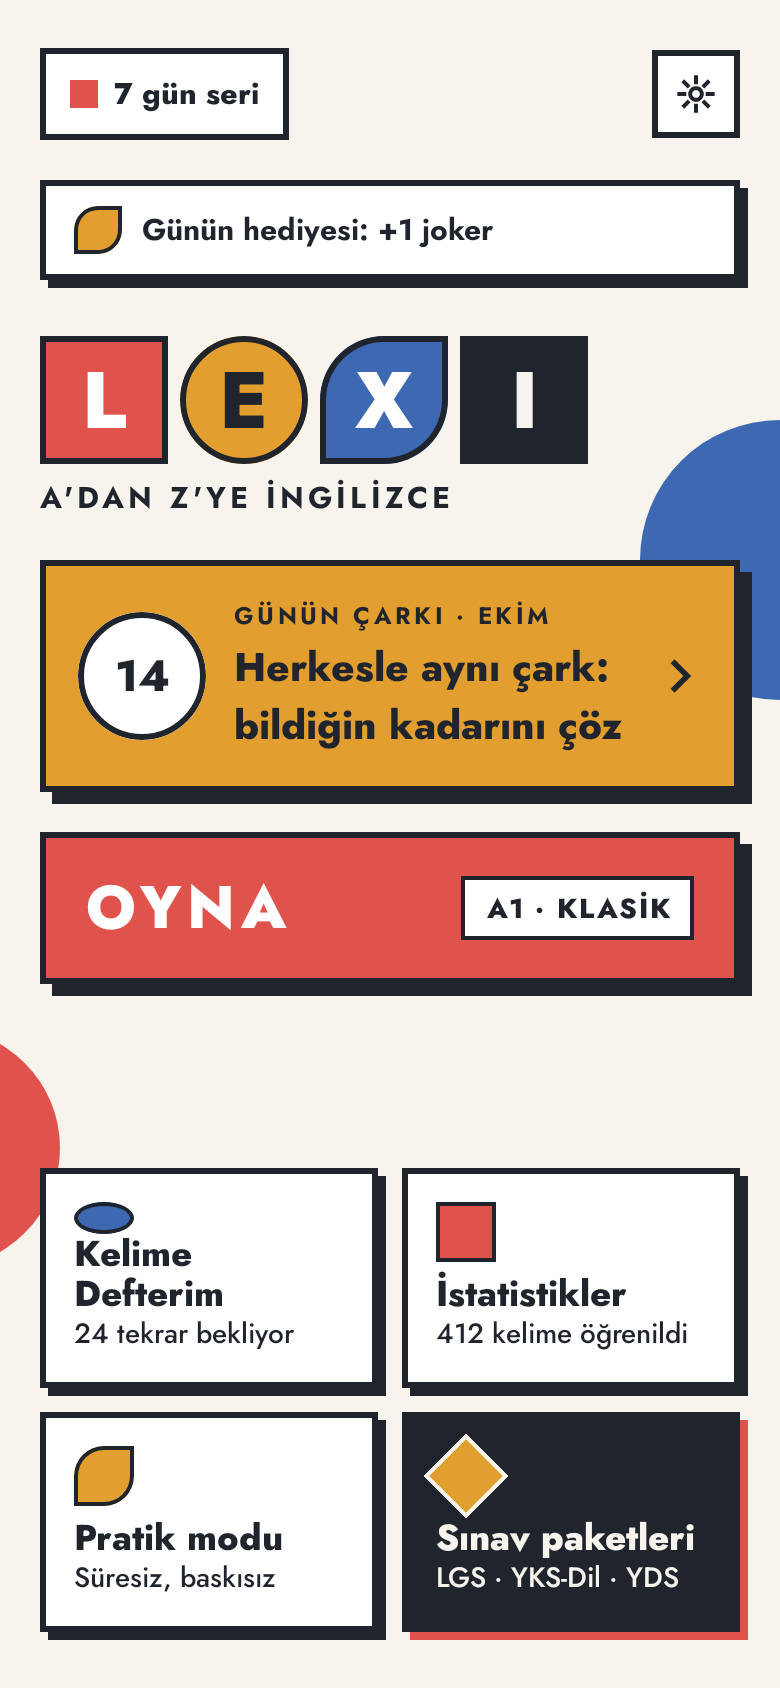
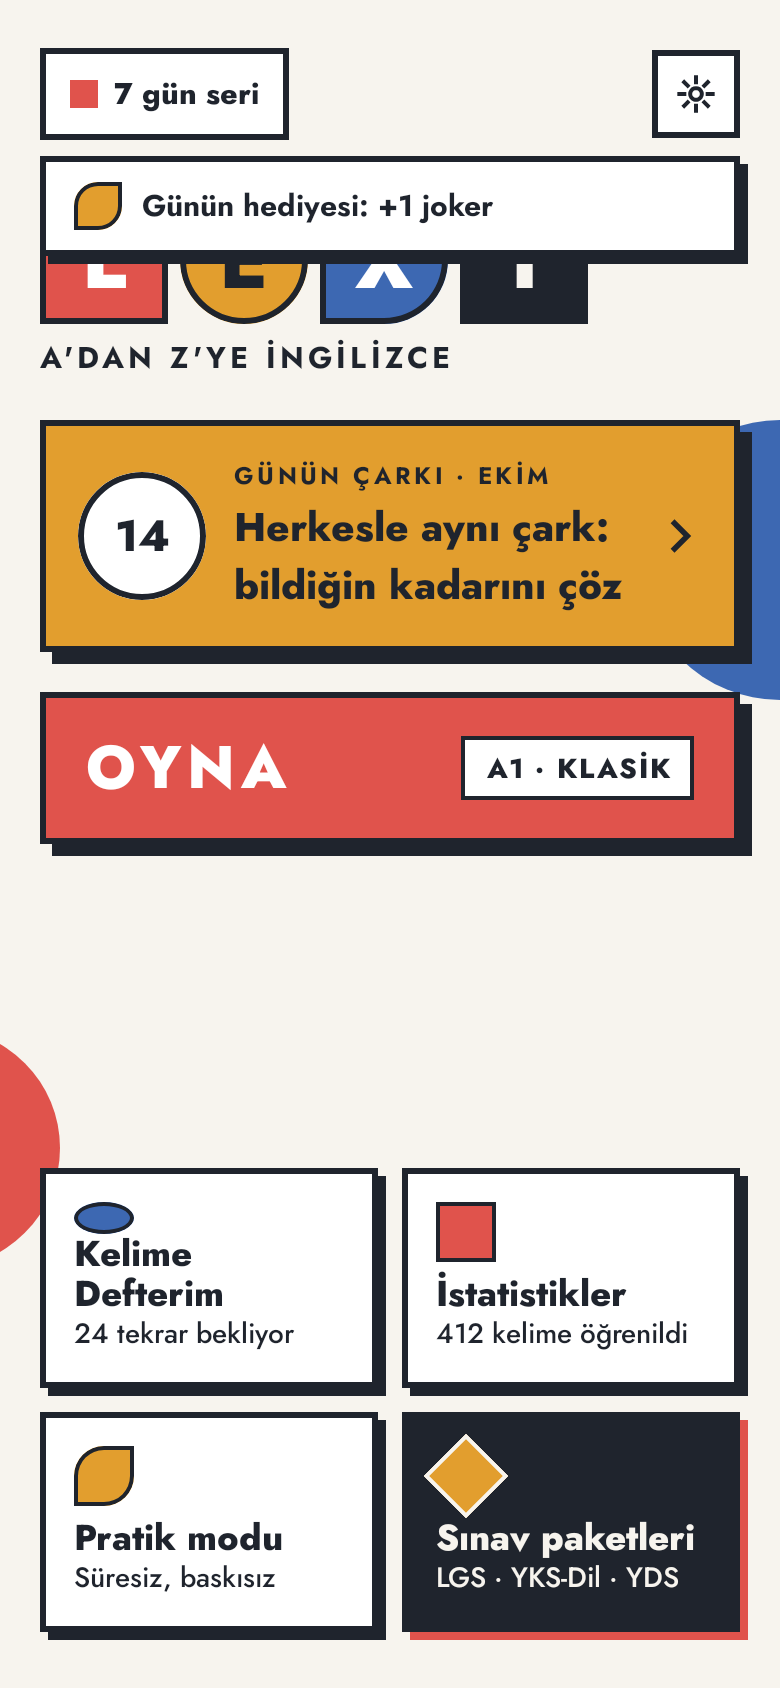
fix(home): show the daily gift as an overlay toast
The inline gift notice took layout space, so Home's other parts shrank while
it was visible. It is now a floating SlidingToast (core:designsystem,
motion #11: 16dp slide in 180 ms, in place with reduced motion) below the top
bar; it takes no layout space, keeps the 6 s duration and tap-to-dismiss, and
waits until Home is resumed. The result screen's share error reuses it.
Adds a regression test that PLAY, the daily card and the tiles keep their
bounds before, during and after the toast.

diff --git a/feature/home/src/commonMain/kotlin/dev/talhabayhan/lexi/feature/home/HomeScreen.kt b/feature/home/src/commonMain/kotlin/dev/talhabayhan/lexi/feature/home/HomeScreen.kt
@@ -25,7 +25,6 @@ import androidx.compose.material3.Icon
 import androidx.compose.material3.Text
 import androidx.compose.runtime.Composable
 import androidx.compose.runtime.CompositionLocalProvider
-import androidx.compose.runtime.LaunchedEffect
 import androidx.compose.runtime.remember
 import androidx.compose.ui.Alignment
 import androidx.compose.ui.Modifier
@@ -53,9 +52,8 @@ import dev.talhabayhan.lexi.core.designsystem.component.LexiLogoSize
 import dev.talhabayhan.lexi.core.designsystem.component.MenuTile
 import dev.talhabayhan.lexi.core.designsystem.component.NavSquareButton
 import dev.talhabayhan.lexi.core.designsystem.component.PlayButton
+import dev.talhabayhan.lexi.core.designsystem.component.SlidingToast
 import dev.talhabayhan.lexi.core.designsystem.component.StreakChip
-import dev.talhabayhan.lexi.core.designsystem.component.Toast
-import dev.talhabayhan.lexi.core.designsystem.component.ToastStyle
 import dev.talhabayhan.lexi.core.designsystem.component.menuTileMinWidth
 import dev.talhabayhan.lexi.core.designsystem.icon.LexiIcons
 import dev.talhabayhan.lexi.core.designsystem.modifier.lexiSurface
@@ -94,7 +92,6 @@ import dev.talhabayhan.lexi.feature.home.generated.resources.home_tile_practice
 import dev.talhabayhan.lexi.feature.home.generated.resources.home_tile_practice_subtitle
 import dev.talhabayhan.lexi.feature.home.generated.resources.home_tile_stats
 import dev.talhabayhan.lexi.feature.home.generated.resources.home_tile_stats_learned
-import kotlinx.coroutines.delay
 import org.jetbrains.compose.resources.pluralStringResource
 import org.jetbrains.compose.resources.stringArrayResource
 import org.jetbrains.compose.resources.stringResource
@@ -102,10 +99,16 @@ import org.jetbrains.compose.resources.stringResource
 /**
  * `02-home`: streak chip and settings, the logo, the daily card, OYNA and the 2 × 2 menu tiles. The blue circle and
  * red half-pill behind are edge-to-edge decoration at 210dp from the top / bottom of the screen; the content keeps the
- * design paddings inside the system-bar insets and never scrolls: on short phones it steps down [HomeTier]s.
+ * design paddings inside the system-bar insets and never scrolls: on short phones it steps down [HomeTier]s. The daily
+ * gift is a floating toast shown only while [noticeVisible] (the screen is resumed); it never affects the layout.
  */
 @Composable
-internal fun HomeScreen(state: HomeUiState, onIntent: (HomeIntent) -> Unit, modifier: Modifier = Modifier) {
+internal fun HomeScreen(
+    state: HomeUiState,
+    onIntent: (HomeIntent) -> Unit,
+    modifier: Modifier = Modifier,
+    noticeVisible: Boolean = true,
+) {
     val colors = LexiTheme.colors
     val dimens = LexiTheme.dimens
     Box(modifier.fillMaxSize().background(colors.cream)) {
@@ -131,8 +134,47 @@ internal fun HomeScreen(state: HomeUiState, onIntent: (HomeIntent) -> Unit, modi
             ) { tier, tileGrowth, fit ->
                 HomeContent(tier, tileGrowth, fit, state, onIntent)
             }
+            // Floats above the content: it takes no layout space, so the gift never resizes or moves Home's parts.
+            val notice = state.dailyGiftNotice
+            if (notice != null && noticeVisible) {
+                GiftToast(
+                    notice = notice,
+                    onDismiss = { onIntent(HomeIntent.DismissNotice) },
+                    modifier = Modifier
+                        .align(Alignment.TopCenter)
+                        .windowInsetsPadding(WindowInsets.safeDrawing)
+                        .lexiContentWidth()
+                        .padding(
+                            start = dimens.screenPaddingHorizontal,
+                            end = dimens.screenPaddingHorizontal,
+                            top = dimens.screenPaddingTop + HomeDefaults.StreakChipHeight + dimens.gap8,
+                        ),
+                )
+            }
         }
     }
+}
+
+/** The daily joker gift as an info toast below the top bar (never over the streak chip or the gear); tap to dismiss. */
+@Composable
+private fun GiftToast(notice: DailyGiftNotice, onDismiss: () -> Unit, modifier: Modifier = Modifier) {
+    val message = when (notice.type) {
+        DailyGiftNoticeType.Daily -> stringResource(Res.string.home_joker_gift_daily, notice.amount)
+        DailyGiftNoticeType.Streak -> stringResource(Res.string.home_joker_gift_streak, notice.amount)
+        DailyGiftNoticeType.Combined -> stringResource(Res.string.home_joker_gift_combined, notice.amount)
+    }
+    SlidingToast(
+        message = message,
+        onDismissed = onDismiss,
+        visibleMillis = NOTICE_VISIBLE_MILLIS,
+        modifier = modifier
+            .fillMaxWidth()
+            .clickable(
+                onClickLabel = stringResource(Res.string.home_notice_dismiss),
+                role = Role.Button,
+                onClick = onDismiss,
+            ),
+    )
 }
 
 /** Heights of one layout tier (`screen-map.md`): regular is the design, the others are DESIGN-DEBT scalings of it. */
@@ -246,27 +288,6 @@ private fun HomeContent(
     ) {
         Column(verticalArrangement = Arrangement.spacedBy(metrics.gap)) {
             TopBar(state, onIntent)
-            state.dailyGiftNotice?.let { notice ->
-                LaunchedEffect(notice) {
-                    delay(NOTICE_VISIBLE_MILLIS)
-                    onIntent(HomeIntent.DismissNotice)
-                }
-                val message = when (notice.type) {
-                    DailyGiftNoticeType.Daily -> stringResource(Res.string.home_joker_gift_daily, notice.amount)
-                    DailyGiftNoticeType.Streak -> stringResource(Res.string.home_joker_gift_streak, notice.amount)
-                    DailyGiftNoticeType.Combined -> stringResource(Res.string.home_joker_gift_combined, notice.amount)
-                }
-                Toast(
-                    message = message,
-                    style = ToastStyle.Info,
-                    modifier = Modifier
-                        .fillMaxWidth()
-                        .clickable(
-                            onClickLabel = stringResource(Res.string.home_notice_dismiss),
-                            role = Role.Button,
-                        ) { onIntent(HomeIntent.DismissNotice) },
-                )
-            }
             Column(
                 Modifier.padding(top = if (tier == HomeTier.Regular) dimens.gap8 else dimens.gap4),
                 verticalArrangement = Arrangement.spacedBy(dimens.gap6),

diff --git a/feature/game/src/commonMain/kotlin/dev/talhabayhan/lexi/feature/game/result/ResultScreen.kt b/feature/game/src/commonMain/kotlin/dev/talhabayhan/lexi/feature/game/result/ResultScreen.kt
@@ -1,7 +1,5 @@
 package dev.talhabayhan.lexi.feature.game.result
 
-import androidx.compose.animation.core.Animatable
-import androidx.compose.animation.core.tween
 import androidx.compose.foundation.BorderStroke
 import androidx.compose.foundation.background
 import androidx.compose.foundation.layout.Arrangement
@@ -26,14 +24,8 @@ import androidx.compose.foundation.rememberScrollState
 import androidx.compose.foundation.verticalScroll
 import androidx.compose.material3.Text
 import androidx.compose.runtime.Composable
-import androidx.compose.runtime.LaunchedEffect
-import androidx.compose.runtime.getValue
-import androidx.compose.runtime.remember
-import androidx.compose.runtime.rememberUpdatedState
 import androidx.compose.ui.Alignment
 import androidx.compose.ui.Modifier
-import androidx.compose.ui.graphics.graphicsLayer
-import androidx.compose.ui.platform.LocalDensity
 import androidx.compose.ui.tooling.preview.Preview
 import androidx.compose.ui.unit.Dp
 import dev.talhabayhan.lexi.core.designsystem.component.AdaptiveTrailingRow
@@ -49,10 +41,9 @@ import dev.talhabayhan.lexi.core.designsystem.component.ResultDefaults
 import dev.talhabayhan.lexi.core.designsystem.component.ReviewMoreRow
 import dev.talhabayhan.lexi.core.designsystem.component.ReviewOutcome
 import dev.talhabayhan.lexi.core.designsystem.component.ReviewRow
+import dev.talhabayhan.lexi.core.designsystem.component.SlidingToast
 import dev.talhabayhan.lexi.core.designsystem.component.StatGrid
 import dev.talhabayhan.lexi.core.designsystem.component.StatTile
-import dev.talhabayhan.lexi.core.designsystem.component.Toast
-import dev.talhabayhan.lexi.core.designsystem.component.ToastStyle
 import dev.talhabayhan.lexi.core.designsystem.format.formatClock
 import dev.talhabayhan.lexi.core.designsystem.modifier.lexiHeading
 import dev.talhabayhan.lexi.core.designsystem.theme.LexiTheme
@@ -104,7 +95,6 @@ import dev.talhabayhan.lexi.feature.game.generated.resources.share_error
 import dev.talhabayhan.lexi.feature.game.result.share.ShareCardCapture
 import kotlinx.collections.immutable.persistentListOf
 import kotlinx.collections.immutable.toImmutableList
-import kotlinx.coroutines.delay
 import org.jetbrains.compose.resources.StringResource
 import org.jetbrains.compose.resources.pluralStringResource
 import org.jetbrains.compose.resources.stringResource
@@ -191,19 +181,10 @@ internal fun ResultScreen(
 /** Info toast "Paylaşım başlatılamadı.": slides down 16dp in 180 ms (no slide with reduced motion), gone after 2.5 s. */
 @Composable
 private fun ShareErrorToast(onDismissed: () -> Unit, modifier: Modifier = Modifier) {
-    val motion = LexiTheme.motion
-    val slidePx = with(LocalDensity.current) { motion.toastSlideDistance.toPx() }
-    val offset = remember { Animatable(if (motion.reducedMotion) 0f else -slidePx) }
-    val latestOnDismissed by rememberUpdatedState(onDismissed)
-    LaunchedEffect(Unit) {
-        offset.animateTo(0f, tween(motion.toastDurationMillis, easing = motion.mechanical))
-        delay(motion.toastVisibleMillis.toLong())
-        latestOnDismissed()
-    }
-    Toast(
+    SlidingToast(
         message = stringResource(Res.string.share_error),
-        style = ToastStyle.Info,
-        modifier = modifier.fillMaxWidth().graphicsLayer { translationY = offset.value },
+        onDismissed = onDismissed,
+        modifier = modifier.fillMaxWidth(),
     )
 }
 

diff --git a/core/designsystem/src/commonMain/kotlin/dev/talhabayhan/lexi/core/designsystem/component/Feedback.kt b/core/designsystem/src/commonMain/kotlin/dev/talhabayhan/lexi/core/designsystem/component/Feedback.kt
@@ -1,5 +1,7 @@
 package dev.talhabayhan.lexi.core.designsystem.component
 
+import androidx.compose.animation.core.Animatable
+import androidx.compose.animation.core.tween
 import androidx.compose.foundation.BorderStroke
 import androidx.compose.foundation.background
 import androidx.compose.foundation.layout.Arrangement
@@ -17,9 +19,15 @@ import androidx.compose.foundation.verticalScroll
 import androidx.compose.material3.Text
 import androidx.compose.runtime.Composable
 import androidx.compose.runtime.Immutable
+import androidx.compose.runtime.LaunchedEffect
+import androidx.compose.runtime.getValue
+import androidx.compose.runtime.remember
+import androidx.compose.runtime.rememberUpdatedState
 import androidx.compose.ui.Alignment
 import androidx.compose.ui.Modifier
 import androidx.compose.ui.graphics.Color
+import androidx.compose.ui.graphics.graphicsLayer
+import androidx.compose.ui.platform.LocalDensity
 import androidx.compose.ui.semantics.LiveRegionMode
 import androidx.compose.ui.semantics.clearAndSetSemantics
 import androidx.compose.ui.semantics.isTraversalGroup
@@ -32,6 +40,7 @@ import androidx.compose.ui.unit.dp
 import dev.talhabayhan.lexi.core.designsystem.modifier.lexiHeading
 import dev.talhabayhan.lexi.core.designsystem.modifier.lexiSurface
 import dev.talhabayhan.lexi.core.designsystem.theme.LexiTheme
+import kotlinx.coroutines.delay
 
 /** Toast colors (`16-components` § BİLDİRİMLER). */
 public enum class ToastStyle {
@@ -126,6 +135,36 @@ public fun Toast(
             }
         }
     }
+}
+
+/**
+ * A [Toast] as an overlay (motion.md #11): slides down [LexiTheme.motion] `toastSlideDistance` in `toastDurationMillis`
+ * (appears in place with reduced motion) and calls [onDismissed] after [visibleMillis]. It is meant to float: place it
+ * in a `Box` above the content, never in the content's own column, so it takes none of the content's space. The slide is a draw
+ * transform, so the toast's bounds and hit area move with it.
+ */
+@Composable
+public fun SlidingToast(
+    message: String,
+    onDismissed: () -> Unit,
+    modifier: Modifier = Modifier,
+    style: ToastStyle = ToastStyle.Info,
+    visibleMillis: Long = LexiTheme.motion.toastVisibleMillis.toLong(),
+) {
+    val motion = LexiTheme.motion
+    val slidePx = with(LocalDensity.current) { motion.toastSlideDistance.toPx() }
+    val offset = remember { Animatable(if (motion.reducedMotion) 0f else -slidePx) }
+    val latestOnDismissed by rememberUpdatedState(onDismissed)
+    LaunchedEffect(message) {
+        offset.animateTo(0f, tween(motion.toastDurationMillis, easing = motion.mechanical))
+        delay(visibleMillis)
+        latestOnDismissed()
+    }
+    Toast(
+        message = message,
+        style = style,
+        modifier = modifier.graphicsLayer { translationY = offset.value },
+    )
 }
 
 /**

diff --git a/feature/home/src/androidHostTest/kotlin/dev/talhabayhan/lexi/feature/home/HomeScreenBehaviourTest.kt b/feature/home/src/androidHostTest/kotlin/dev/talhabayhan/lexi/feature/home/HomeScreenBehaviourTest.kt
@@ -1,5 +1,8 @@
 package dev.talhabayhan.lexi.feature.home
 
+import androidx.compose.runtime.getValue
+import androidx.compose.runtime.mutableStateOf
+import androidx.compose.runtime.setValue
 import androidx.compose.ui.semantics.LiveRegionMode
 import androidx.compose.ui.semantics.Role
 import androidx.compose.ui.semantics.SemanticsProperties
@@ -7,6 +10,7 @@ import androidx.compose.ui.test.ComposeUiTest
 import androidx.compose.ui.test.ExperimentalTestApi
 import androidx.compose.ui.test.SemanticsMatcher
 import androidx.compose.ui.test.assert
+import androidx.compose.ui.test.getBoundsInRoot
 import androidx.compose.ui.test.hasText
 import androidx.compose.ui.test.onNodeWithContentDescription
 import androidx.compose.ui.test.onNodeWithText
@@ -133,5 +137,42 @@ class HomeScreenBehaviourTest {
             .performClick()
 
         assertEquals(listOf<HomeIntent>(HomeIntent.DismissNotice), intents)
+    }
+
+    @Test
+    fun `the gift toast floats and leaves home's sizes and positions unchanged`() = runComposeUiTest {
+        var notice by mutableStateOf<DailyGiftNotice?>(null)
+        setContent {
+            LexiTheme(reducedMotion = true) {
+                HomeScreen(HomeSampleState.copy(dailyGiftNotice = notice), onIntent = {})
+            }
+        }
+        fun bounds() = listOf("OYNA", "Herkesle aynı çark: bildiğin kadarını çöz", "Kelime Defterim")
+            .map { onNodeWithText(it).getBoundsInRoot() }
+
+        val before = bounds()
+        notice = DailyGiftNotice(DailyGiftNoticeType.Daily, 1)
+        waitForIdle()
+        onNode(hasText("Günün hediyesi", substring = true)).assertExists()
+        assertEquals(before, bounds())
+
+        notice = null
+        waitForIdle()
+        onNode(hasText("Günün hediyesi", substring = true)).assertDoesNotExist()
+        assertEquals(before, bounds())
+    }
+
+    @Test
+    fun `the gift toast waits until the screen is resumed`() = runComposeUiTest {
+        setContent {
+            LexiTheme(reducedMotion = true) {
+                HomeScreen(
+                    HomeSampleState.copy(dailyGiftNotice = DailyGiftNotice(DailyGiftNoticeType.Daily, 1)),
+                    onIntent = {},
+                    noticeVisible = false,
+                )
+            }
+        }
+        onNode(hasText("Günün hediyesi", substring = true)).assertDoesNotExist()
     }
 }

diff --git a/feature/home/src/androidHostTest/kotlin/dev/talhabayhan/lexi/feature/home/HomeScreenScreenshotTest.kt b/feature/home/src/androidHostTest/kotlin/dev/talhabayhan/lexi/feature/home/HomeScreenScreenshotTest.kt
@@ -132,25 +132,11 @@ class HomeScreenScreenshotTest {
         }
     }
 
+    /** The gift toast floats over the unchanged home (reduced motion: already in place, no mid-slide frame). */
     @Test
     fun dailyGiftNotice() {
         captureRoboImage("src/androidHostTest/screenshots/HomeScreenDailyGiftNotice.png") {
-            LexiTheme(reducedMotion = false) {
-                HomeScreen(
-                    state = HomeSampleState.copy(
-                        dailyGiftNotice = DailyGiftNotice(DailyGiftNoticeType.Daily, 1),
-                    ),
-                    onIntent = {},
-                )
-            }
-        }
-    }
-
-    @Test
-    @Config(qualifiers = "en-w390dp-h844dp-xhdpi")
-    fun dailyGiftNoticeEnglish() {
-        captureRoboImage("src/androidHostTest/screenshots/HomeScreenDailyGiftNoticeEnglish.png") {
-            LexiTheme(reducedMotion = false) {
+            LexiTheme(reducedMotion = true) {
                 HomeScreen(
                     state = HomeSampleState.copy(
                         dailyGiftNotice = DailyGiftNotice(DailyGiftNoticeType.Daily, 1),

diff --git a/feature/home/src/commonMain/kotlin/dev/talhabayhan/lexi/feature/home/HomeRoute.kt b/feature/home/src/commonMain/kotlin/dev/talhabayhan/lexi/feature/home/HomeRoute.kt
@@ -7,6 +7,7 @@ import androidx.compose.runtime.rememberUpdatedState
 import androidx.lifecycle.Lifecycle
 import androidx.lifecycle.compose.LocalLifecycleOwner
 import androidx.lifecycle.compose.collectAsStateWithLifecycle
+import androidx.lifecycle.compose.currentStateAsState
 import androidx.lifecycle.repeatOnLifecycle
 import androidx.navigation.NavGraphBuilder
 import androidx.navigation.compose.composable
@@ -94,5 +95,11 @@ internal fun HomeRoute(
             }
         }
     }
-    HomeScreen(state = state, onIntent = viewModel::onIntent)
+    // A gift granted while Home is still entering (onboarding → Home) waits in the state and shows once resumed.
+    val lifecycleState by lifecycleOwner.lifecycle.currentStateAsState()
+    HomeScreen(
+        state = state,
+        onIntent = viewModel::onIntent,
+        noticeVisible = lifecycleState.isAtLeast(Lifecycle.State.RESUMED),
+    )
 }

diff --git a/docs/design/screen-map.md b/docs/design/screen-map.md
@@ -39,7 +39,7 @@ before shipping.
 | Share failed (DESIGN-DEBT, needs design) | M6 | no design: the result screen shows the `Toast` (ToastStyle.Info) "Paylaşım başlatılamadı." at the top for 2.5 s (motion #11) |
 | Result TEKRAR OYNA target | M4 | deviation: the design sends TEKRAR OYNA to level select; the app starts a new game at once with the same level, mode and category (product owner decision) |
 | Joker sheet ad button | M4 | shipped look has no "Kısa reklam izle · +1 joker" button (`FeatureFlags.rewardedAdJokers`, off until M7); `05-joker-sheet.png` shows it |
-| Daily joker gift notice (DESIGN-DEBT) | M7 | built from 16-components: Toast (ToastStyle.Info) shown below top bar when GrantDailyJokers grants daily gift or streak bonus; dismissible (stays 6 s for screen readers, see motion #11) and once per day |
+| Daily joker gift notice (DESIGN-DEBT) | M7 | built from 16-components: `SlidingToast` (ToastStyle.Info) floating over Home below the top bar (no layout space: Home's parts never resize or move) when GrantDailyJokers grants daily gift or streak bonus; slides in per motion #11, shown once Home is resumed, dismissible (stays 6 s for screen readers) and once per day |
 | Disabled game inputs (wrong-answer reveal) | M4 | keys / backspace / joker at 50 % without shadow (joker sheet's disabled rows), PAS = `LexiButton` disabled |
 | Onboarding steps 1 & 3 | M6 | same layout as step 2, different shapes & copy |
 | Level choice: copy and step indicators | M6 | built to `01-onboarding` (red SEVİYE TESTİNE BAŞLA, "YA DA SEVİYENİ SEÇ", six 48dp chips; a chip saves the level and finishes) with the `COPY.md` §4 title and body instead of the design's "karışık bir çark" text (owner decision, `GAME_RULES.md` §9). The design's step indicators are left out (the level choice comes after step 3); bottom padding is the design's 28 (steps keep 24). Button and chip labels shrink to fit one line on narrow phones and large fonts |

diff --git a/docs/design/motion.md b/docs/design/motion.md
@@ -65,7 +65,8 @@ Implemented in `feature:game` (`GameMotion`, `GameMotionLayer`, `GameFeedback`) 
 - #8: in the warning the counter is `redText` on the white track and ink where the red fill runs under it (clipped second layer), so it is readable at any progress. `TimerBar` pulses whenever the counter changes (and when the warning starts), not on first composition, so a
   paused or restored warning does not pulse.
 - #11: the result screen's share error toast slides down 16dp in 180 ms (`mechanical`) and goes after 2.5 s (the home daily-gift notice stays 6 s so screen-reader users can reach it); reduced
-  motion: shown in place, no slide. (The home daily-gift notice shows the toast without the slide.)
+  motion: shown in place, no slide. Both use `SlidingToast` (core:designsystem): a floating overlay that takes no layout
+  space; the home gift sits below the top bar, is dismissible by tap ("Kapat") and waits until Home is resumed.
 - `win` / `lose` have no catalogue row, so they are not played yet (to be decided with the result screen's motion).
 
 #12 is set on `LexiNavHost` (all destinations): enter slides from +24dp over 260 ms and fades in over 200 ms from
